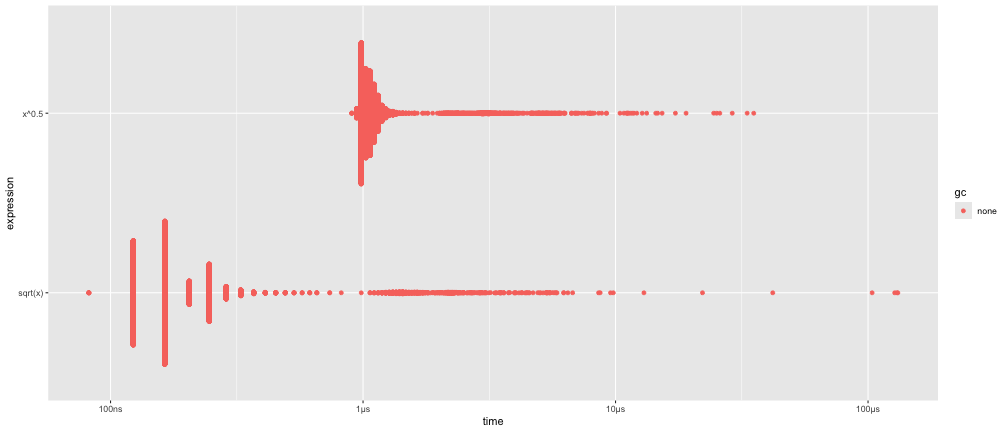
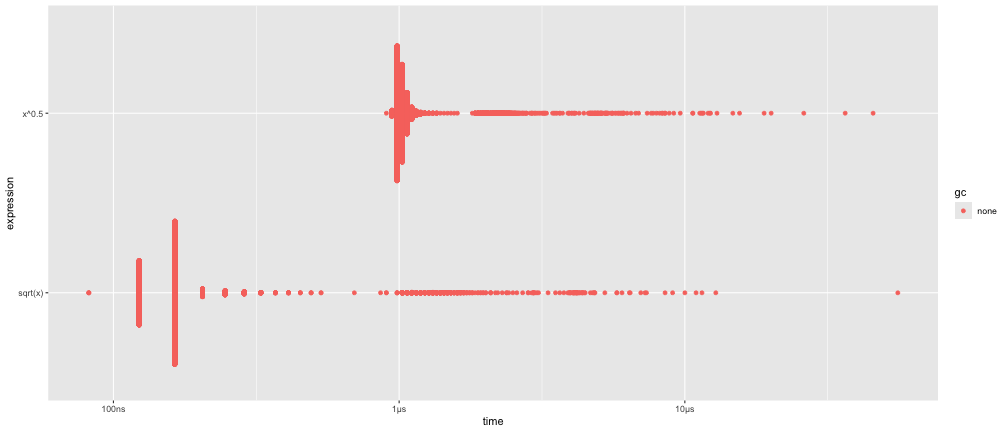
updates in mpp

diff --git a/SoSe_2025/measuring and profiling/MeasuringProfiling.html b/SoSe_2025/measuring and profiling/MeasuringProfiling.html
@@ -328,10 +328,10 @@ x &lt;- runif(100)
 
 ```
 ## # A tibble: 2 × 6
-##   expression     min   median `itr/sec` mem_alloc `gc/sec`
-##   &lt;bch:expr&gt; &lt;bch:t&gt; &lt;bch:tm&gt;     &lt;dbl&gt; &lt;bch:byt&gt;    &lt;dbl&gt;
-## 1 sqrt(x)       82ns 164.03ns  3164467.      848B        0
-## 2 x^0.5        902ns   1.02µs   819462.      848B        0
+##   expression      min   median `itr/sec` mem_alloc `gc/sec`
+##   &lt;bch:expr&gt; &lt;bch:tm&gt; &lt;bch:tm&gt;     &lt;dbl&gt; &lt;bch:byt&gt;    &lt;dbl&gt;
+## 1 sqrt(x)        82ns    164ns  4058862.      848B        0
+## 2 x^0.5         902ns    984ns   880771.      848B        0
 ```
 
 
@@ -533,20 +533,12 @@ search()
 ```
 
 ```
-##  [1] ".GlobalEnv"             "package:profvis"       
-##  [3] "package:emoji"          "package:icons"         
-##  [5] "package:tictoc"         "package:beeswarm"      
-##  [7] "package:microbenchmark" "package:sloop"         
-##  [9] "package:lubridate"      "package:forcats"       
-## [11] "package:stringr"        "package:readr"         
-## [13] "package:tidyr"          "package:tibble"        
-## [15] "package:ggplot2"        "package:tidyverse"     
-## [17] "package:dplyr"          "package:purrr"         
-## [19] "package:palmerpenguins" "tools:rstudio"         
-## [21] "package:stats"          "package:graphics"      
-## [23] "package:grDevices"      "package:utils"         
-## [25] "package:datasets"       "package:methods"       
-## [27] "Autoloads"              "package:base"
+##  [1] ".GlobalEnv"             "package:emoji"          "package:icons"         
+##  [4] "package:tidyr"          "package:dplyr"          "package:tictoc"        
+##  [7] "package:beeswarm"       "package:microbenchmark" "package:stats"         
+## [10] "package:graphics"       "package:grDevices"      "package:utils"         
+## [13] "package:datasets"       "package:methods"        "Autoloads"             
+## [16] "package:base"
 ```
 
 ]]
@@ -666,10 +658,10 @@ bench::mark(f1(), f2())
 
 ```
 ## # A tibble: 2 × 6
-##   expression      min  median `itr/sec` mem_alloc `gc/sec`
-##   &lt;bch:expr&gt; &lt;bch:tm&gt; &lt;bch:t&gt;     &lt;dbl&gt; &lt;bch:byt&gt;    &lt;dbl&gt;
-## 1 f1()              0    82ns  8135081.        0B      0  
-## 2 f2()          123ns   287ns   814988.        0B     81.5
+##   expression      min   median `itr/sec` mem_alloc `gc/sec`
+##   &lt;bch:expr&gt; &lt;bch:tm&gt; &lt;bch:tm&gt;     &lt;dbl&gt; &lt;bch:byt&gt;    &lt;dbl&gt;
+## 1 f1()              0     82ns  8555837.        0B        0
+## 2 f2()           82ns    164ns  3572276.        0B        0
 ```
 
 Arguments trigger promises each time the function is *called*. Superfluous arguments thus lead to avoidable overhead.
